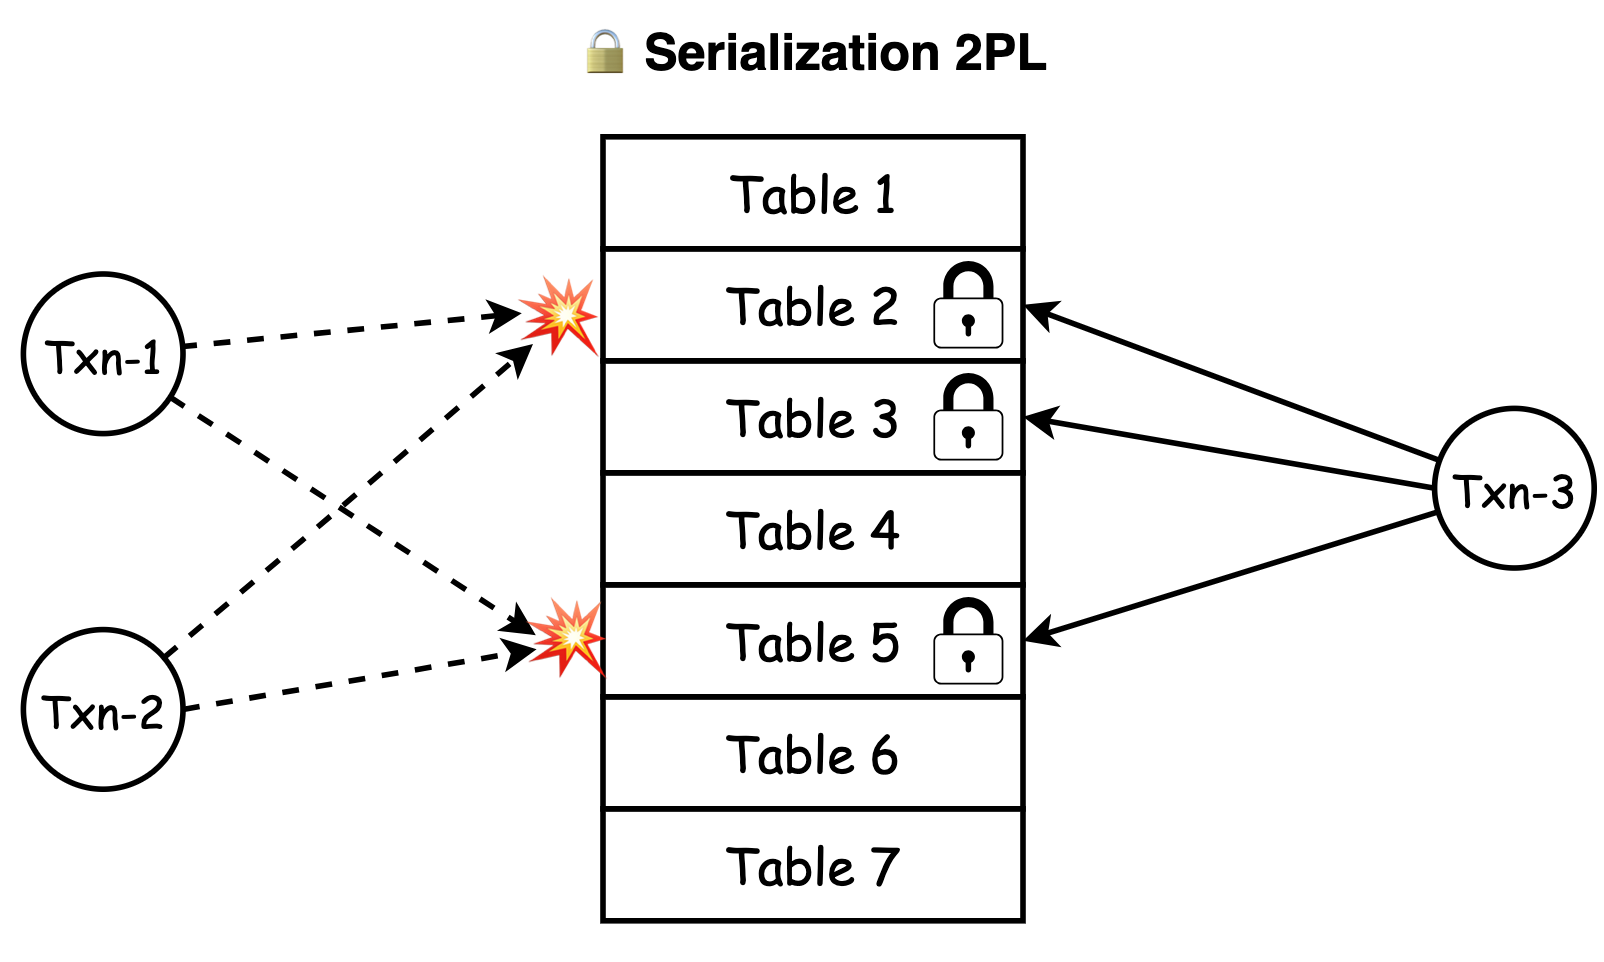
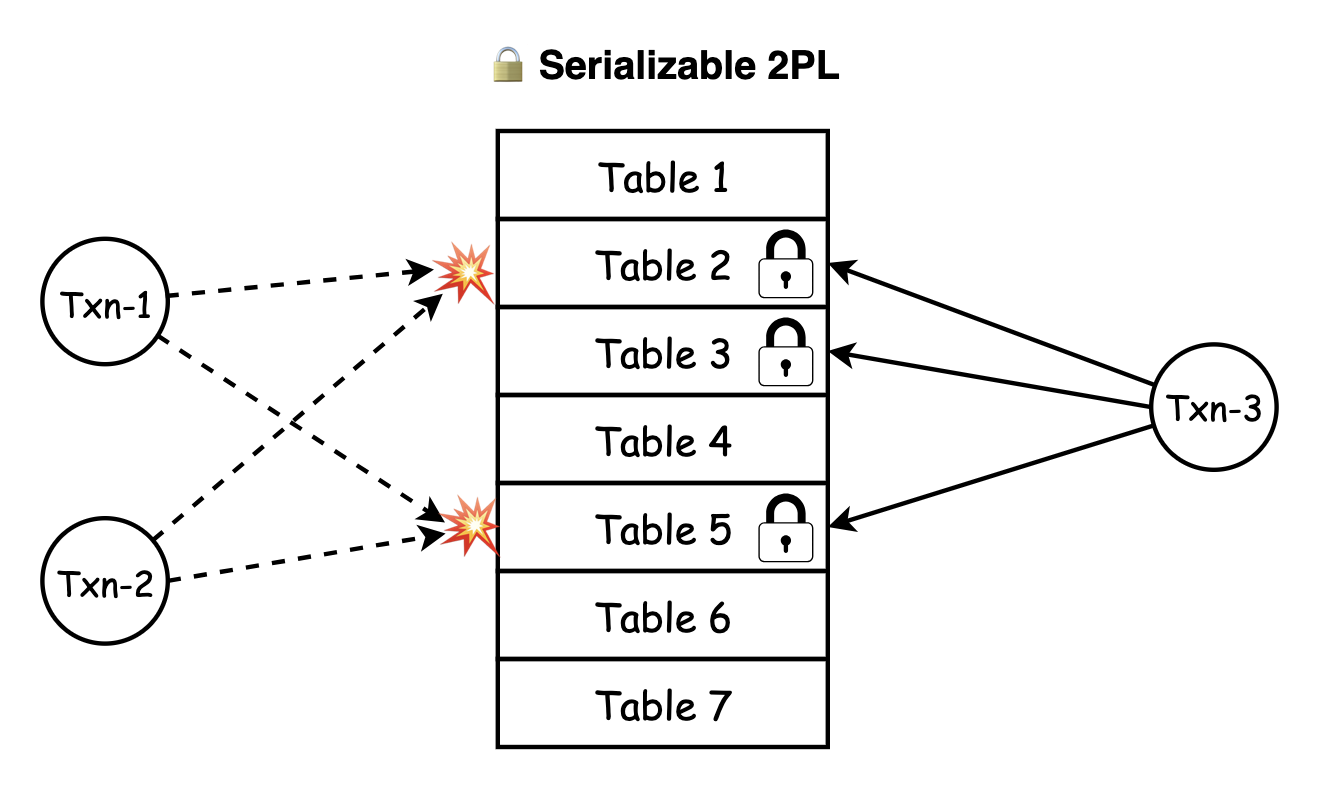
add: urnadb document transaction chapter.

diff --git a/guide/transaction/index.html b/guide/transaction/index.html
@@ -743,13 +743,13 @@ Important">
     <div class="hx-mt-6 hx-leading-7 first:hx-mt-0"><p>UrnaDB 的事务处理器基于 MVCC 管理并发事务访问的数据版本，对于同时执行的多个事务，当其访问的数据存在重叠时，系统会在提交阶段根据事务的提交顺序进行冲突检测，并决定是合并变更还是回滚冲突事务。并发优化的核心在于降低事务之间的数据访问重叠，让多个事务之间 <strong>“尽量少碰同一批数据”</strong> ，MVCC 通过为每个事务维护独立的数据版本，使事务能够在各自的版本视图上执行操作，从而实现读写解耦，减少锁竞争并提升系统整体并发性能。当数据规模 N 远大于并发事务数量 T 时，即数学公式为 <strong>𝑁 ≫ 𝑇</strong> 成立时，事务访问集合之间的交集概率显著降低，系统冲突率趋于较低水平，在此条件下 MVCC 模型能够有效提升系统并发能力，从而提高整体事务吞吐量。</p></div>
   </div>
 </div>
-<p>需要注意的是在 MVCC 模式下，事务处理并不能保证每个事务都能够成功提交，当多个事务对同一数据记录产生写冲突时，系统会在提交阶段进行冲突检测并回滚冲突事务。在需要强一致性的批量事务场景下，UrnaDB 提供类似传统关系型数据库 <strong>Serialization</strong> 模式中两阶段锁 <a href="https://zh.wikipedia.org/zh-cn/%E4%B8%A4%E9%98%B6%E6%AE%B5%E9%94%81" target="_blank" rel="noopener"><strong>2PL</strong></a> 的事务处理模式，事务串行化示意图如下：</p>
-<img src="/images/txns-2pl.png" alt="transaction" id="serialization" width="100%" />
+<p>需要注意的是在 MVCC 模式下，事务处理并不能保证每个事务都能够成功提交，当多个事务对同一数据记录产生写冲突时，系统会在提交阶段进行冲突检测并回滚冲突事务。在需要强一致性的批量事务场景下，UrnaDB 提供类似传统关系型数据库 <strong>Serializable</strong> 模式中两阶段锁 <a href="https://zh.wikipedia.org/zh-cn/%E4%B8%A4%E9%98%B6%E6%AE%B5%E9%94%81" target="_blank" rel="noopener"><strong>2PL</strong></a> 的事务处理模式，事务串行化示意图如下：</p>
+<img src="/images/txns-2pl.png" alt="transaction" id="serializable" width="100%" />
 <div class="hx-overflow-x-auto hx-mt-6 hx-flex hx-flex-col hx-rounded-lg hx-border hx-py-4 hx-px-4 contrast-more:hx-border-current contrast-more:dark:hx-border-current hx-border-amber-200 hx-bg-amber-100 hx-text-amber-900 dark:hx-border-amber-200/30 dark:hx-bg-amber-900/30 dark:hx-text-amber-200">
   <p class="hx-flex hx-items-center hx-font-medium"><svg height=16px class="hx-inline-block hx-align-middle hx-mr-2" xmlns="http://www.w3.org/2000/svg" fill="none" viewBox="0 0 24 24" stroke-width="2" stroke="currentColor" aria-hidden="true"><path stroke-linecap="round" stroke-linejoin="round" d="M12 9v2m0 4h.01m-6.938 4h13.856c1.54 0 2.502-1.667 1.732-3L13.732 4c-.77-1.333-2.694-1.333-3.464 0L3.34 16c-.77 1.333.192 3 1.732 3z"/></svg>Warning</p>
 
   <div class="hx-w-full hx-min-w-0 hx-leading-7">
-    <div class="hx-mt-6 hx-leading-7 first:hx-mt-0"><p><strong>Serialization</strong> 适用于对批量原子事务具有强一致性要求的场景，然而由于其执行过程中会放大锁粒度，不建议在单个事务中操作过多 Table 命名空间，实践中通常将数量控制在 5 个以内，否则将显著增加锁竞争与阻塞时间，降低系统整体并发性能。</p></div>
+    <div class="hx-mt-6 hx-leading-7 first:hx-mt-0"><p><strong>Serializable</strong> 适用于对批量原子事务具有强一致性要求的场景，然而由于其执行过程中会放大锁粒度，不建议在单个事务中操作过多 Table 命名空间，实践中通常将数量控制在 5 个以内，否则将显著增加锁竞争与阻塞时间，降低系统整体并发性能。</p></div>
   </div>
 </div>
 <h2>⚛ 原子事务<span class="hx-absolute -hx-mt-20" id="-原子事务"></span>
@@ -786,7 +786,7 @@ Important">
 </span></span><span style="display:flex;"><span>            }
 </span></span><span style="display:flex;"><span>        }
 </span></span><span style="display:flex;"><span>    ],
-</span></span><span style="display:flex;"><span>    <span style="color:#f92672">&#34;serialization&#34;</span>: <span style="color:#66d9ef">false</span>
+</span></span><span style="display:flex;"><span>    <span style="color:#f92672">&#34;serializable&#34;</span>: <span style="color:#66d9ef">false</span>
 </span></span><span style="display:flex;"><span>}</span></span></code></pre></div></div><div class="hextra-code-copy-btn-container hx-opacity-0 hx-transition group-hover/code:hx-opacity-100 hx-flex hx-gap-1 hx-absolute hx-m-[11px] hx-right-0 hx-top-0">
   <button
     class="hextra-code-copy-btn hx-group/copybtn hx-transition-all active:hx-opacity-50 hx-bg-primary-700/5 hx-border hx-border-black/5 hx-text-gray-600 hover:hx-text-gray-900 hx-rounded-md hx-p-1.5 dark:hx-bg-primary-300/10 dark:hx-border-white/10 dark:hx-text-gray-400 dark:hover:hx-text-gray-50"
@@ -832,7 +832,7 @@ Important">
 </span></span></span><span style="display:flex;"><span><span style="color:#e6db74">            }
 </span></span></span><span style="display:flex;"><span><span style="color:#e6db74">        }
 </span></span></span><span style="display:flex;"><span><span style="color:#e6db74">    ],
-</span></span></span><span style="display:flex;"><span><span style="color:#e6db74">    &#34;serialization&#34;: false
+</span></span></span><span style="display:flex;"><span><span style="color:#e6db74">    &#34;serializable&#34;: false
 </span></span></span><span style="display:flex;"><span><span style="color:#e6db74">}&#39;</span></span></span></code></pre></div></div><div class="hextra-code-copy-btn-container hx-opacity-0 hx-transition group-hover/code:hx-opacity-100 hx-flex hx-gap-1 hx-absolute hx-m-[11px] hx-right-0 hx-top-0">
   <button
     class="hextra-code-copy-btn hx-group/copybtn hx-transition-all active:hx-opacity-50 hx-bg-primary-700/5 hx-border hx-border-black/5 hx-text-gray-600 hover:hx-text-gray-900 hx-rounded-md hx-p-1.5 dark:hx-bg-primary-300/10 dark:hx-border-white/10 dark:hx-text-gray-400 dark:hover:hx-text-gray-50"
@@ -847,7 +847,7 @@ Important">
   <p class="hx-flex hx-items-center hx-font-medium"><svg height=16px class="hx-inline-block hx-align-middle hx-mr-2" xmlns="http://www.w3.org/2000/svg" fill="none" viewBox="0 0 24 24" stroke-width="2" stroke="currentColor" aria-hidden="true"><path stroke-linecap="round" stroke-linejoin="round" d="M12 9v2m0 4h.01m-6.938 4h13.856c1.54 0 2.502-1.667 1.732-3L13.732 4c-.77-1.333-2.694-1.333-3.464 0L3.34 16c-.77 1.333.192 3 1.732 3z"/></svg>Warning</p>
 
   <div class="hx-w-full hx-min-w-0 hx-leading-7">
-    <div class="hx-mt-6 hx-leading-7 first:hx-mt-0"><p>上述请求会对名为 <strong>users</strong> 的 Table 命名空间执行批量原子操作，类似于关系数据库中的 <code>INSERT</code> 和 <code>UPDATE</code> 组合事务语句，需要注意的是 <strong>serialization</strong> 字段的值，如果不传入 <strong>serialization</strong> 字段，UrnaDB 事务处理器默认会以值为 false 进行处理。此处的 <a href="#serialization" ><strong>serialization</strong></a>  对应前文提到的关系型数据库中的事务串行化模式，但在使用方式上更加灵活，关系型数据库通常需要在配置中统一设置事务隔离级别，而 UrnaDB 则通过在每次事务请求中指定 serialization 字段，动态决定是否启用串行化模式。</p></div>
+    <div class="hx-mt-6 hx-leading-7 first:hx-mt-0"><p>上述请求会对名为 <strong>users</strong> 的 Table 命名空间执行批量原子操作，类似于关系数据库中的 <code>INSERT</code> 和 <code>UPDATE</code> 组合事务语句，需要注意的是 <strong>serializable</strong> 字段的值，如果不传入 <strong>serializable</strong> 字段，UrnaDB 事务处理器默认会以值为 false 进行处理。此处的 <a href="#serializable" ><strong>serializable</strong></a>  对应前文提到的关系型数据库中的事务串行化模式，但在使用方式上更加灵活，关系型数据库通常需要在配置中统一设置事务隔离级别，而 UrnaDB 则通过在每次事务请求中指定 serializable 字段，动态决定是否启用串行化模式。</p></div>
   </div>
 </div>
 <p>批量原子事务操作 JSON Body 请求中的 <strong>operation</strong> 字段用于标识当前 Mutation 的操作类型，不同类型对应不同的数据结构变更需求，客户端必须根据操作类型提供相应字段，否则事务请求将被拒绝；不同 Operation 类型说明表格如下：</p>
